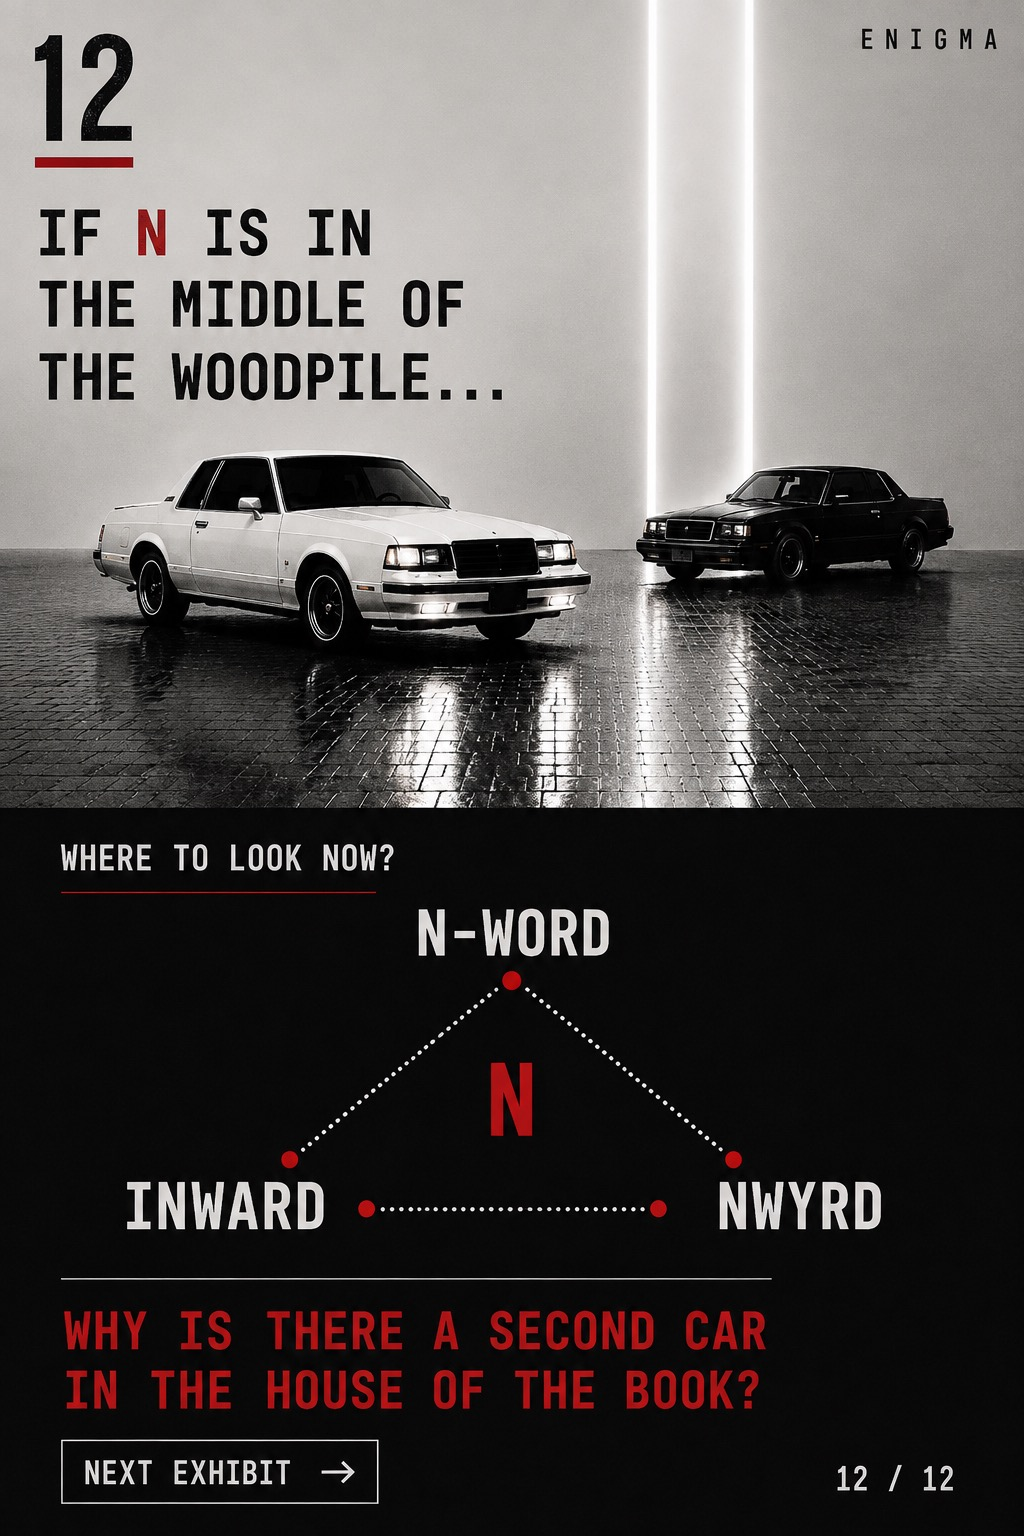
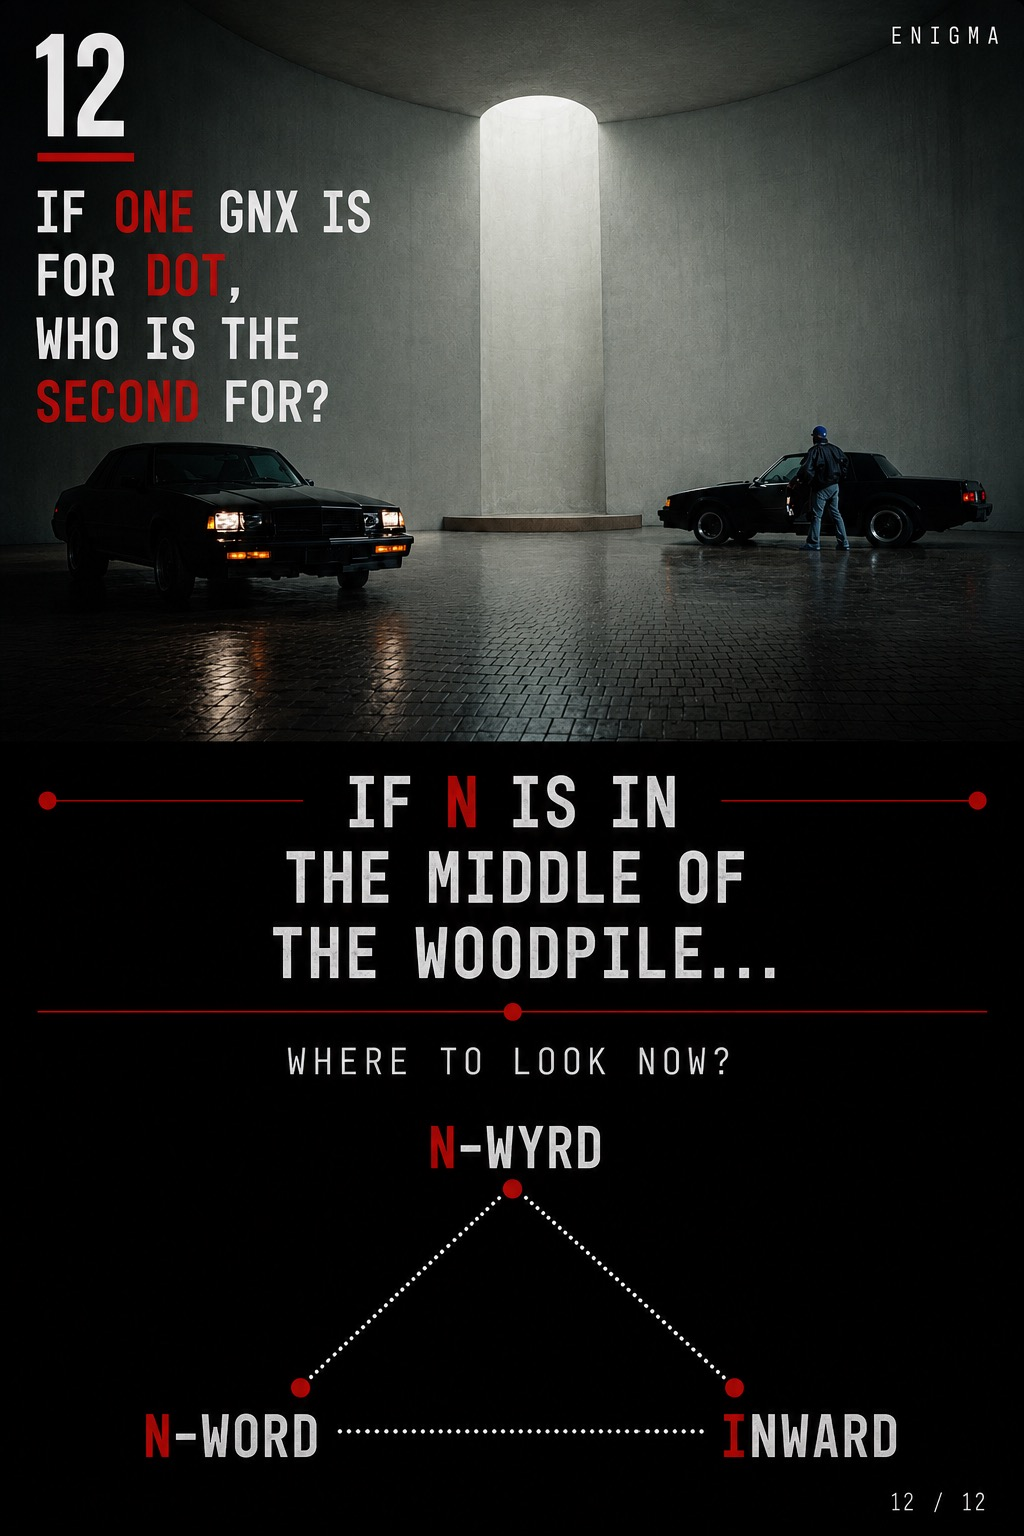
update(gnx): replace slides 2 and 12 with revised artwork
Slide 2 closing question now reads "So what's all this mean — and why
does it matter?" Slide 12 reframed: "If one GNX is for Dot, who is the
second for?" with figure between two cars, triangle repositioned.

diff --git a/src/data/exhibits.ts b/src/data/exhibits.ts
@@ -87,7 +87,7 @@ export const EXHIBITS: Exhibit[] = [
     },
     slides: [
       { src: "/art/exhibits/gnx/gnx01.jpg", alt: "Case #2 — 25 Years Later. 1999: DMX, '…And Then There Was X.' 2024: Kendrick Lamar, GNX. Two cars face each other — one white, one black. (1 of 12)" },
-      { src: "/art/exhibits/gnx/gnx02.jpg", alt: "Previously: Case #1 — The Origin of X. Agatha Christie's title trail (1939 slur → 1940 'Ten Little Indians' → 1944 'And Then There Were None') beside DMX = 'Divine Master of the Unknown.' The title changed, the name disappeared, None became X. 25 years later → GNX. Case #1 left us with one question: what does X really mean? (2 of 12)" },
+      { src: "/art/exhibits/gnx/gnx02.jpg", alt: "Previously: Case #1 — The Origin of X. Agatha Christie's title trail (1939 slur → 1940 'Ten Little Indians' → 1944 'And Then There Were None') beside DMX = 'Divine Master of the Unknown.' The title changed, the name disappeared, None became X. 25 years later → GNX. Case #1 left us with one question: so what's all this mean — and why does it matter? (2 of 12)" },
       { src: "/art/exhibits/gnx/gnx03.jpg", alt: "The obvious answer: GNX — Grand National eXperimental. Two cars, two meanings? Is 'GNX' a double entendre? (3 of 12)" },
       { src: "/art/exhibits/gnx/gnx04.jpg", alt: "What about G? We have G · N · X but what do they mean? X is known: X = 10 and the unknown. G and N remain unsolved. Many possibilities, not enough evidence yet. (4 of 12)" },
       { src: "/art/exhibits/gnx/gnx05.jpg", alt: "What could G mean? If G · N · X is a code, G could be the key that connects it all. GNX tracks examined: TV Off ('This that Alpha and Omega,' Revelation 1:8), Reincarnated (Ecclesiastes 3:11), Man at the Garden (Genesis 2:15, 3:8, John 20:15), Squabble Up ('Gods knows, I am…' — 'I am' is God's name, Exodus 3:14), Wacced Out Murals ('Know you a God,' Psalm 82:6), Gloria (glory, SZA — Euphoria). Do you lack the heart to glorify Euphoria to make it His? (5 of 12)" },
@@ -97,7 +97,7 @@ export const EXHIBITS: Exhibit[] = [
       { src: "/art/exhibits/gnx/gnx09.jpg", alt: "The X Connects — from helping hands to Peekaboo. 01: XXXTentacion's warning to Drake ('If anybody tries to kill me, it was Drake'). 02: XXXTentacion started the #HelpingHandChallenge before Drake's God's Plan. 03: Kendrick on Silent Hill — 'Peekaboo, can't hide behind your money dawg.' 04: Peekaboo on GNX samples 'Give a Helping Hand.' X → XXX → Drake → God's Plan. Is XXXTentacion's murder a mystery? (9 of 12)" },
       { src: "/art/exhibits/gnx/gnx10.jpg", alt: "Now read GNX again. Three letters, three possibilities. G → God? Evidence from GNX: Man at the Garden, Squabble Up ('I am'), Wacced Out Murals ('Know you a God'), Gloria (glory, same root). N → N-word? Evidence from Euphoria: YNW Melly, the N in YNW, Kendrick's warning to Drake. X → 10 / Unknown / Christ? Evidence from the investigation: Roman numeral, the variable, DMX, Chi = Christos. Three letters. How many meanings? Is there one reading that accounts for all of them? (10 of 12)" },
       { src: "/art/exhibits/gnx/gnx11.jpg", alt: "The Full Cipher. Agatha Christie → 10. DMX → '…And Then There Was X' → None → Unknown (Ten). Euphoria / YNW Melly → YNW → N. Kendrick Lamar → GNX → G.N.X. The pattern connects: N is one middle letter, the center of the pattern; multiple references across art, history, and music; X marks the spot; the N holds the meaning. The N is in the middle. So far the investigation has moved outward. Is there somewhere we haven't looked? Where now? (11 of 12)" },
-      { src: "/art/exhibits/gnx/gnx12.jpg", alt: "If N is in the middle of the woodpile… Where to look now? A triangle: N-word at the top, Inward on the left, NWyrd on the right, N at the center. Why is there a second car in the House of the Book? Next exhibit → (12 of 12)" },
+      { src: "/art/exhibits/gnx/gnx12.jpg", alt: "If one GNX is for Dot, who is the second for? A figure stands between two cars in the House of the Book. If N is in the middle of the woodpile… Where to look now? A triangle: N-Wyrd at the top, N-Word bottom-left, Inward bottom-right. (12 of 12)" },
     ],
   },
   {
